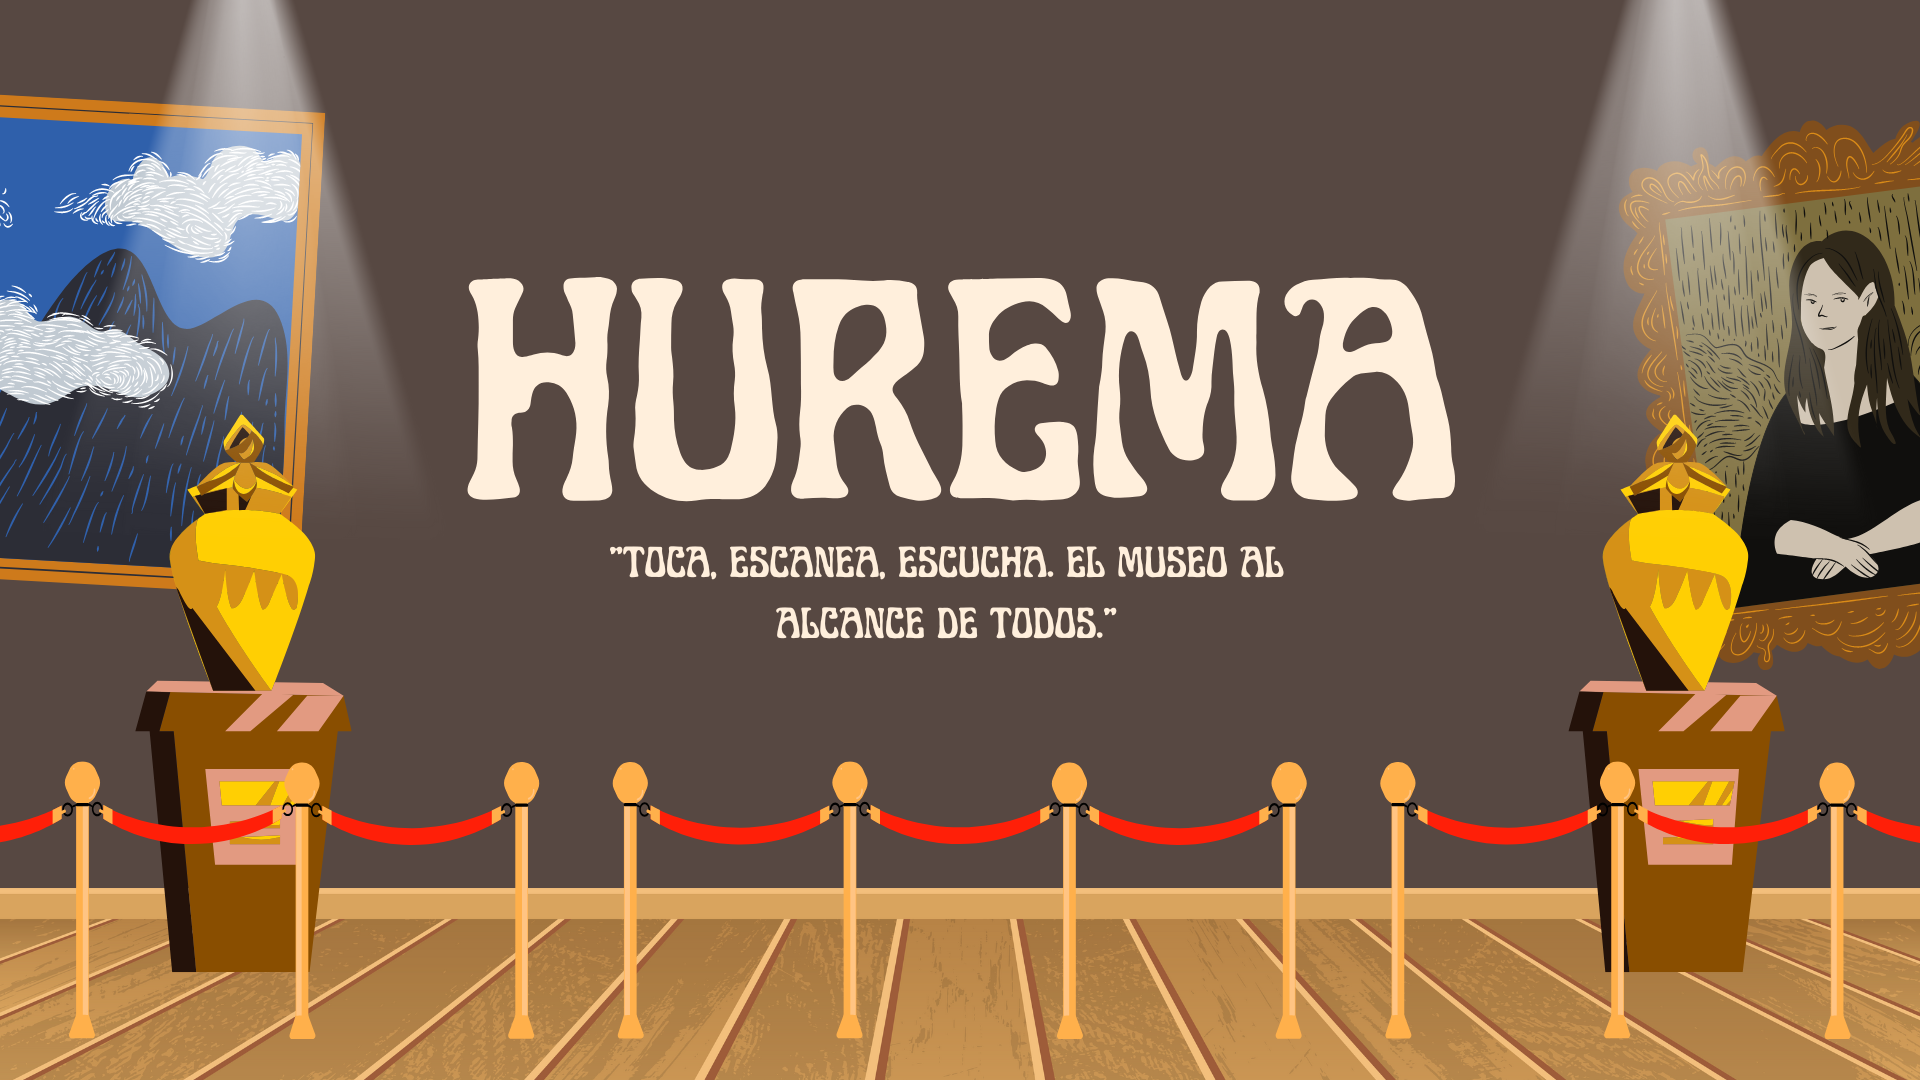
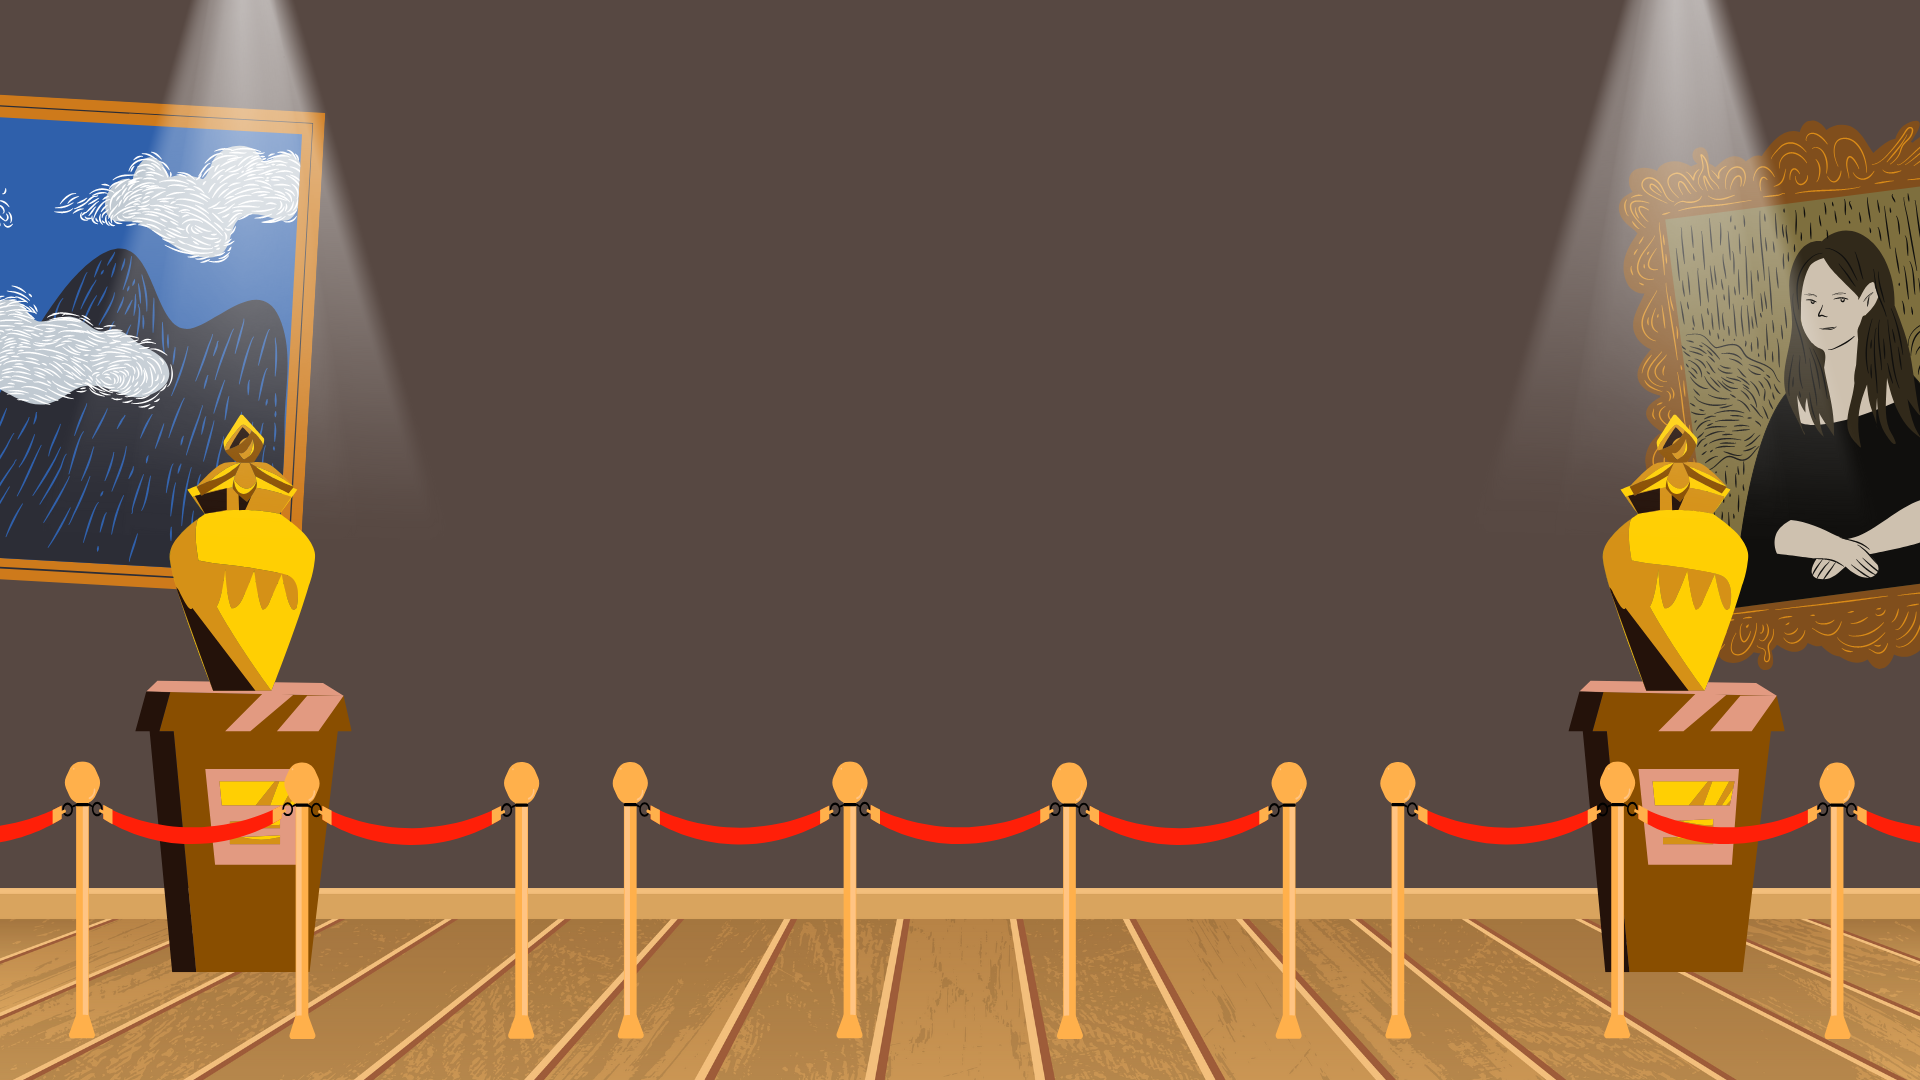
dos

Changed region(s): [[0.2188, 0.2444, 0.7812, 0.6111]]

diff --git a/assets/css/main/index.css b/assets/css/main/index.css
@@ -20,7 +20,7 @@ a {
     position: fixed;
     width: 130dvw;
     height: 130dvh;
-    background-image: url("/assets/img/index-bg.webp");
+    background-image: url("/assets/img/Fondo.png");
     background-size: cover;
     background-repeat: no-repeat;
     background-position: center;
@@ -34,7 +34,6 @@ section.dato {
     border-radius: 20px;
     min-height: fit-content;
     width: 85%;
-    max-width: 90%;
 }
 
 section.dato .iconos {
@@ -60,7 +59,7 @@ section.dato .iconos span:nth-child(3) {
 }
 
 h1.verdefast {
-    font-size: 48px;
+    font-size: 18px;
     text-align: center;
 }
 
@@ -109,9 +108,7 @@ article.landing-container .botones {
 
     h1.verdefast {
         font-size: 72px;
-        width: 12ch;
-        text-align: left;
-        text-wrap: pretty;
+        text-align: center;
     }
 
     article.landing-container {
@@ -123,7 +120,8 @@ article.landing-container .botones {
     }
 
     section.dato {
-        width: 25vw;
+        width: 65vw;
+        text-align: center;
         max-width: inherit;
     }
 }

diff --git a/assets/css/common/custom.css b/assets/css/common/custom.css
@@ -28,7 +28,7 @@ fieldset { border: none; }
     -moz-text-fill-color: transparent;
 }
 
-.verde { color: var(--primario); }
+.verde { color: #540f74; }
 
 .fast { color: var(--primario-100); }
 
@@ -49,27 +49,27 @@ a:has(span.material-symbols-outlined):hover .material-symbols-outlined {
 }
 
 a.boton, button.boton {
-    background-color: var(--alt-2-600);
+    background-color: #8f45b1;
     color: white;
     border-radius: 25px;
     padding: 15px;
     width: fit-content;
-    font-size: 18px;
+    font-size: 28px;
     font-weight: bold;
     cursor: pointer;
 }
 
 a.boton:hover, button.boton:hover {
-    background-color: var(--alt-2);
+    background-color: var(--oscuro-t-h);
 }
 
 a.boton-secundario, button.boton-secundario {
-    color: var(--gris);
-    background-color: var(--oscuro-t);
+    background-color: #8f45b1;
+    color: white;
     border-radius: 25px;
     padding: 15px;
     width: fit-content;
-    font-size: 18px;
+    font-size: 28px;
     font-weight: bold;
     cursor: pointer;
 }

diff --git a/assets/css/common/global.css b/assets/css/common/global.css
@@ -8,7 +8,7 @@ body { min-height: 100dvh; }
 input, button, textarea, select { font: inherit; }
 
 p { text-wrap: pretty; }
-h1, h2, h3, h4, h5, h6 { text-wrap: balance; }
+ h2, h3, h4, h5, h6 { text-wrap: balance; }
 
 img, video, svg { max-width: 100%; height: auto; }
 

diff --git a/view/main/index.php b/view/main/index.php
@@ -5,20 +5,15 @@
 <body>
 <?php include '../layouts/modules/alertas.php'; ?>
     <article class="landing-container">
-        <h1 class="verdefast">Bienvenido a <span class="verde">Verde</span><span class="fast">Fast</span></h1>
+        
         <div class="landing-desktop">
             <section class="dato">
-                <div class="iconos">
-                    <span class="material-symbols-outlined">nature</span>
-                    <span class="material-symbols-outlined">bolt</span>
-                    <span class="material-symbols-outlined">speed</span>
-                </div>
-                <p>VerdeFast es un sistema automatizado que utiliza pulsos mioeléctricos de baja intensidad para acelerar el crecimiento de cultivos, reduciendo hasta un 40% los costos de insumos agrícolas tradicionales.</p>
+                <h1 class="verdefast">Bienvenido a <span class="verde">HUREMA</span></h1>
             </section>
-            <p class="pruebalo-ya">¿Ya lo probaste?</p>
+            <p class="pruebalo-ya">¿Tipo de Discapacidad?</p>
             <div class="botones">
-                <a href="/view/form/login.php" class="boton">Inicia sesión</a>
-                <a href="/view/form/registrar_usuario.php?origen=index" class="boton-secundario">Regístrate</a>
+                <a href="/view/form/login.php" class="boton">Ciego</a>
+                <a href="/view/form/registrar_usuario.php?origen=index" class="boton-secundario">Sordo</a>
             </div>
         </div>
         <div class="landing-bg"></div>
